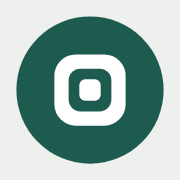
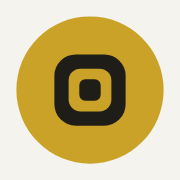
Guldfarver som AI Workshop og Berg-Streaming
Claude-Session: https://claude.ai/code/session_01TdJqpZBuzSHtcKeftNjitx

diff --git a/roundqr.html b/roundqr.html
@@ -5,7 +5,7 @@
 <meta name="viewport" content="width=device-width, initial-scale=1, viewport-fit=cover">
 <title>Round QR</title>
 <meta name="description" content="Lav runde eller almindelige QR-koder fra et link. Vælg form, farver og logo, og gem som PNG, JPG eller SVG. Gratis, uden login og uden reklamer.">
[2 lines of base64/hex data omitted]
 <style>:root{color-scheme:light;padding-top:env(safe-area-inset-top,0px);padding-bottom:env(safe-area-inset-bottom,0px)}body{margin:0}img{max-width:100%}[hidden]{display:none!important}</style>
 </head>
 <body>
@@ -19,14 +19,15 @@
[1 lines of base64/hex data omitted]
 /* Layout: tool page. Large preview stage left, compact control column right; stacks on phones with the preview first. */
 :root {
-  --bg: #eef0ee;
+  --bg: #f5f3ee;
   --surface: #ffffff;
-  --stage: #e3e7e5;
-  --ink: #15201d;
-  --muted: #5b6863;
-  --line: #d4dbd8;
-  --accent: #1e5b4f;
-  --accent-ink: #ffffff;
+  --stage: #ece8de;
+  --ink: #1f1d18;
+  --muted: #6b665a;
+  --line: #e0dbcf;
+  --accent: #c9a227;
+  --accent-strong: #8a6a00;
+  --accent-ink: #1f1d18;
   --ok: #2b7a4b;
   --ok-bg: #e2f1e7;
   --warn: #9c5118;
@@ -37,15 +38,15 @@
 }
 @media (prefers-color-scheme: dark) {
   :root:not([data-theme="light"]) {
-    --bg: #0f1514; --surface: #172020; --stage: #1d2726; --ink: #e5ebe8; --muted: #93a19c;
-    --line: #2a3533; --accent: #72c2ab; --accent-ink: #0b1311;
+    --bg: #141310; --surface: #1c1b17; --stage: #24221c; --ink: #ece8de; --muted: #a39d8e;
+    --line: #34312a; --accent: #f2c230; --accent-strong: #f7cb40; --accent-ink: #17150f;
     --ok: #7fd3a0; --ok-bg: #173226; --warn: #f2ab6b; --warn-bg: #36261a;
     color-scheme: dark;
   }
 }
 :root[data-theme="dark"] {
-  --bg: #0f1514; --surface: #172020; --stage: #1d2726; --ink: #e5ebe8; --muted: #93a19c;
-  --line: #2a3533; --accent: #72c2ab; --accent-ink: #0b1311;
+  --bg: #141310; --surface: #1c1b17; --stage: #24221c; --ink: #ece8de; --muted: #a39d8e;
+  --line: #34312a; --accent: #f2c230; --accent-strong: #f7cb40; --accent-ink: #17150f;
   --ok: #7fd3a0; --ok-bg: #173226; --warn: #f2ab6b; --warn-bg: #36261a;
   color-scheme: dark;
 }
@@ -118,7 +119,7 @@ input[type="text"], select {
 #link { font-family: var(--font-mono); font-size: 14px; }
 input:focus-visible, select:focus-visible, button:focus-visible, .seg input:focus-visible + span,
 .switch input:focus-visible + span, .file input:focus-visible + span {
-  outline: 2px solid var(--accent); outline-offset: 2px;
+  outline: 2px solid var(--accent-strong); outline-offset: 2px;
 }
 
 .seg { display: inline-flex; background: var(--bg); border: 1px solid var(--line); border-radius: 9px; padding: 3px; gap: 2px; }
@@ -149,7 +150,7 @@ input[type="color"] { width: 100%; height: 36px; border: 1px solid var(--line); 
 .preset { flex: none; scroll-snap-align: start; width: 44px; height: 44px; display: grid; place-items: center; padding: 0;
   background: transparent; border: 2px solid transparent; border-radius: 50%; cursor: pointer; }
 .preset:hover { background: var(--bg); }
-.preset[aria-pressed="true"] { border-color: var(--accent); }
+.preset[aria-pressed="true"] { border-color: var(--accent-strong); }
 .preset .sw { position: relative; width: 32px; height: 32px; border-radius: 50%; display: block;
   border: 3px solid var(--sw-bg, #fff); box-shadow: 0 0 0 1px var(--line); }
 .preset .sw::after { content: ""; position: absolute; right: -4px; bottom: -4px; width: 12px; height: 12px; border-radius: 4px;
@@ -313,8 +314,8 @@ header .lang input:not(:checked) + span .flag { opacity: 0.7; }
       <div class="group">
         <span class="label" data-t="colours">Farver</span>
         <div class="colors">
-          <label><span data-t="cCode">Kode</span><input type="color" id="fg" value="#15201d"></label>
-          <label><span data-t="cEyes">Øjne</span><input type="color" id="eyec" value="#15201d"></label>
+          <label><span data-t="cCode">Kode</span><input type="color" id="fg" value="#1f1d18"></label>
+          <label><span data-t="cEyes">Øjne</span><input type="color" id="eyec" value="#1f1d18"></label>
           <label><span data-t="background">Baggrund</span><input type="color" id="bg" value="#ffffff"></label>
         </div>
         <div class="field">
@@ -13017,7 +13018,7 @@ var RQ = (function () {
       gradient: "Farveforløb", cCode2: "Slutfarve", direction: "Retning", dDiagonal: "Diagonal", dVertical: "Lodret", dRadial: "Radial",
       exGrad: "Koden glider fra Kode til Slutfarve, så hold begge farver mørke.",
       presetsLbl: "Farvesæt", custom: "Egne farver", prev: "Forrige", next: "Næste",
-      presets: ["Blæk", "Sort", "Navy og guld", "Skov", "Hav", "Bordeaux", "Aubergine", "Grafit", "Terrakotta", "Kaffe", "Solnedgang", "Nordlys", "Dybhav", "Blomme", "Mos", "Nat"]
+      presets: ["Blæk", "Sort", "Guld", "Navy og guld", "Skov", "Hav", "Bordeaux", "Aubergine", "Grafit", "Terrakotta", "Kaffe", "Solnedgang", "Nordlys", "Dybhav", "Blomme", "Mos", "Nat"]
     },
     en: {
       footNote: "Works offline. No cookies and no tracking.",
@@ -13064,15 +13065,16 @@ var RQ = (function () {
       gradient: "Gradient", cCode2: "End colour", direction: "Direction", dDiagonal: "Diagonal", dVertical: "Vertical", dRadial: "Radial",
       exGrad: "The code blends from Code to End colour, so keep both colours dark.",
       presetsLbl: "Colour sets", custom: "Custom", prev: "Previous", next: "Next",
-      presets: ["Ink", "Black", "Navy & gold", "Forest", "Ocean", "Burgundy", "Aubergine", "Graphite", "Terracotta", "Coffee", "Sunset", "Aurora", "Deep sea", "Plum", "Moss", "Night"]
+      presets: ["Ink", "Black", "Gold", "Navy & gold", "Forest", "Ocean", "Burgundy", "Aubergine", "Graphite", "Terracotta", "Coffee", "Sunset", "Aurora", "Deep sea", "Plum", "Moss", "Night"]
     }
   };
   var lang = "da";
   function t(k) { return T[lang][k]; }
 
   var PRESETS = [
-    { fg: "#15201d", eyec: "#15201d", bg: "#ffffff" },
+    { fg: "#1f1d18", eyec: "#1f1d18", bg: "#ffffff" },
     { fg: "#000000", eyec: "#000000", bg: "#ffffff" },
+    { fg: "#1f1d18", eyec: "#9a7400", bg: "#ffffff" },
     { fg: "#13294b", eyec: "#a8812a", bg: "#ffffff" },
     { fg: "#1d4b3b", eyec: "#1d4b3b", bg: "#ffffff" },
     { fg: "#0b4f6c", eyec: "#01295f", bg: "#ffffff" },

diff --git a/index.html b/index.html
@@ -9,8 +9,8 @@
 <link rel="icon" href="favicon.svg" type="image/svg+xml">
 <link rel="icon" href="favicon-32.png" sizes="32x32" type="image/png">
 <link rel="apple-touch-icon" href="apple-touch-icon.png">
-<meta name="theme-color" content="#eef0ee" media="(prefers-color-scheme: light)">
-<meta name="theme-color" content="#0f1514" media="(prefers-color-scheme: dark)">
+<meta name="theme-color" content="#f5f3ee" media="(prefers-color-scheme: light)">
+<meta name="theme-color" content="#141310" media="(prefers-color-scheme: dark)">
 <meta property="og:type" content="website">
 <meta property="og:url" content="https://roundqr.dk/">
 <meta property="og:site_name" content="Round QR">
@@ -34,14 +34,15 @@
 @font-face{font-family:"IBM Plex Mono";font-style:normal;font-weight:500;font-display:swap;src:url(assets/fonts/plex-mono-500.woff2) format("woff2")}
 /* Layout: tool page. Large preview stage left, compact control column right; stacks on phones with the preview first. */
 :root {
-  --bg: #eef0ee;
+  --bg: #f5f3ee;
   --surface: #ffffff;
-  --stage: #e3e7e5;
-  --ink: #15201d;
-  --muted: #5b6863;
-  --line: #d4dbd8;
-  --accent: #1e5b4f;
-  --accent-ink: #ffffff;
+  --stage: #ece8de;
+  --ink: #1f1d18;
+  --muted: #6b665a;
+  --line: #e0dbcf;
+  --accent: #c9a227;
+  --accent-strong: #8a6a00;
+  --accent-ink: #1f1d18;
   --ok: #2b7a4b;
   --ok-bg: #e2f1e7;
   --warn: #9c5118;
@@ -52,15 +53,15 @@
 }
 @media (prefers-color-scheme: dark) {
   :root:not([data-theme="light"]) {
-    --bg: #0f1514; --surface: #172020; --stage: #1d2726; --ink: #e5ebe8; --muted: #93a19c;
-    --line: #2a3533; --accent: #72c2ab; --accent-ink: #0b1311;
+    --bg: #141310; --surface: #1c1b17; --stage: #24221c; --ink: #ece8de; --muted: #a39d8e;
+    --line: #34312a; --accent: #f2c230; --accent-strong: #f7cb40; --accent-ink: #17150f;
     --ok: #7fd3a0; --ok-bg: #173226; --warn: #f2ab6b; --warn-bg: #36261a;
     color-scheme: dark;
   }
 }
 :root[data-theme="dark"] {
-  --bg: #0f1514; --surface: #172020; --stage: #1d2726; --ink: #e5ebe8; --muted: #93a19c;
-  --line: #2a3533; --accent: #72c2ab; --accent-ink: #0b1311;
+  --bg: #141310; --surface: #1c1b17; --stage: #24221c; --ink: #ece8de; --muted: #a39d8e;
+  --line: #34312a; --accent: #f2c230; --accent-strong: #f7cb40; --accent-ink: #17150f;
   --ok: #7fd3a0; --ok-bg: #173226; --warn: #f2ab6b; --warn-bg: #36261a;
   color-scheme: dark;
 }
@@ -133,7 +134,7 @@ input[type="text"], select {
 #link { font-family: var(--font-mono); font-size: 14px; }
 input:focus-visible, select:focus-visible, button:focus-visible, .seg input:focus-visible + span,
 .switch input:focus-visible + span, .file input:focus-visible + span {
-  outline: 2px solid var(--accent); outline-offset: 2px;
+  outline: 2px solid var(--accent-strong); outline-offset: 2px;
 }
 
 .seg { display: inline-flex; background: var(--bg); border: 1px solid var(--line); border-radius: 9px; padding: 3px; gap: 2px; }
@@ -164,7 +165,7 @@ input[type="color"] { width: 100%; height: 36px; border: 1px solid var(--line); 
 .preset { flex: none; scroll-snap-align: start; width: 44px; height: 44px; display: grid; place-items: center; padding: 0;
   background: transparent; border: 2px solid transparent; border-radius: 50%; cursor: pointer; }
 .preset:hover { background: var(--bg); }
-.preset[aria-pressed="true"] { border-color: var(--accent); }
+.preset[aria-pressed="true"] { border-color: var(--accent-strong); }
 .preset .sw { position: relative; width: 32px; height: 32px; border-radius: 50%; display: block;
   border: 3px solid var(--sw-bg, #fff); box-shadow: 0 0 0 1px var(--line); }
 .preset .sw::after { content: ""; position: absolute; right: -4px; bottom: -4px; width: 12px; height: 12px; border-radius: 4px;
@@ -216,16 +217,16 @@ header .lang input:not(:checked) + span .flag { opacity: 0.7; }
 .sp-list li + li { border-top: 1px solid var(--line); }
 .sp { display: grid; grid-template-columns: 58px minmax(0, 1fr) auto; gap: 16px; align-items: start; padding: 16px 18px; color: inherit; text-decoration: none; }
 .sp:hover { background: var(--bg); }
-.sp:focus-visible { outline: 2px solid var(--accent); outline-offset: -3px; border-radius: 12px; }
+.sp:focus-visible { outline: 2px solid var(--accent-strong); outline-offset: -3px; border-radius: 12px; }
 .sp-logo { width: 58px; height: 58px; border-radius: 13px; background: var(--plate); display: grid; place-items: center; padding: 6px; box-shadow: 0 0 0 1px var(--line); }
 .sp-logo img { width: 46px; height: 46px; object-fit: contain; display: block; }
 .sp-body { display: flex; flex-direction: column; gap: 3px; min-width: 0; }
 .sp-head { display: flex; flex-wrap: wrap; align-items: baseline; gap: 2px 10px; }
 .sp-name { font-weight: 600; font-size: 15.5px; }
-.sp-url { font-family: var(--font-mono); font-size: 12.5px; color: var(--accent); }
+.sp-url { font-family: var(--font-mono); font-size: 12.5px; color: var(--accent-strong); }
 .sp-text { font-size: 14px; line-height: 1.5; color: var(--muted); max-width: 64ch; }
 .sp-arrow { color: var(--muted); font-size: 18px; line-height: 1; align-self: center; }
-.sp:hover .sp-arrow { color: var(--accent); }
+.sp:hover .sp-arrow { color: var(--accent-strong); }
 @media (max-width: 480px) {
   .sp { grid-template-columns: 48px minmax(0, 1fr); gap: 14px; padding: 14px; }
   .sp-logo { width: 48px; height: 48px; border-radius: 11px; padding: 5px; }
@@ -366,8 +367,8 @@ header .lang input:not(:checked) + span .flag { opacity: 0.7; }
       <div class="group">
         <span class="label" data-t="colours">Farver</span>
         <div class="colors">
-          <label><span data-t="cCode">Kode</span><input type="color" id="fg" value="#15201d"></label>
-          <label><span data-t="cEyes">Øjne</span><input type="color" id="eyec" value="#15201d"></label>
+          <label><span data-t="cCode">Kode</span><input type="color" id="fg" value="#1f1d18"></label>
+          <label><span data-t="cEyes">Øjne</span><input type="color" id="eyec" value="#1f1d18"></label>
           <label><span data-t="background">Baggrund</span><input type="color" id="bg" value="#ffffff"></label>
         </div>
         <div class="field">
@@ -735,7 +736,7 @@ var RQ = (function () {
       gradient: "Farveforløb", cCode2: "Slutfarve", direction: "Retning", dDiagonal: "Diagonal", dVertical: "Lodret", dRadial: "Radial",
       exGrad: "Koden glider fra Kode til Slutfarve, så hold begge farver mørke.",
       presetsLbl: "Farvesæt", custom: "Egne farver", prev: "Forrige", next: "Næste",
-      presets: ["Blæk", "Sort", "Navy og guld", "Skov", "Hav", "Bordeaux", "Aubergine", "Grafit", "Terrakotta", "Kaffe", "Solnedgang", "Nordlys", "Dybhav", "Blomme", "Mos", "Nat"]
+      presets: ["Blæk", "Sort", "Guld", "Navy og guld", "Skov", "Hav", "Bordeaux", "Aubergine", "Grafit", "Terrakotta", "Kaffe", "Solnedgang", "Nordlys", "Dybhav", "Blomme", "Mos", "Nat"]
     },
     en: {
       spTitle: "Sponsors",
@@ -794,15 +795,16 @@ var RQ = (function () {
       gradient: "Gradient", cCode2: "End colour", direction: "Direction", dDiagonal: "Diagonal", dVertical: "Vertical", dRadial: "Radial",
       exGrad: "The code blends from Code to End colour, so keep both colours dark.",
       presetsLbl: "Colour sets", custom: "Custom", prev: "Previous", next: "Next",
-      presets: ["Ink", "Black", "Navy & gold", "Forest", "Ocean", "Burgundy", "Aubergine", "Graphite", "Terracotta", "Coffee", "Sunset", "Aurora", "Deep sea", "Plum", "Moss", "Night"]
+      presets: ["Ink", "Black", "Gold", "Navy & gold", "Forest", "Ocean", "Burgundy", "Aubergine", "Graphite", "Terracotta", "Coffee", "Sunset", "Aurora", "Deep sea", "Plum", "Moss", "Night"]
     }
   };
   var lang = "da";
   function t(k) { return T[lang][k]; }
 
   var PRESETS = [
-    { fg: "#15201d", eyec: "#15201d", bg: "#ffffff" },
+    { fg: "#1f1d18", eyec: "#1f1d18", bg: "#ffffff" },
     { fg: "#000000", eyec: "#000000", bg: "#ffffff" },
+    { fg: "#1f1d18", eyec: "#9a7400", bg: "#ffffff" },
     { fg: "#13294b", eyec: "#a8812a", bg: "#ffffff" },
     { fg: "#1d4b3b", eyec: "#1d4b3b", bg: "#ffffff" },
     { fg: "#0b4f6c", eyec: "#01295f", bg: "#ffffff" },
